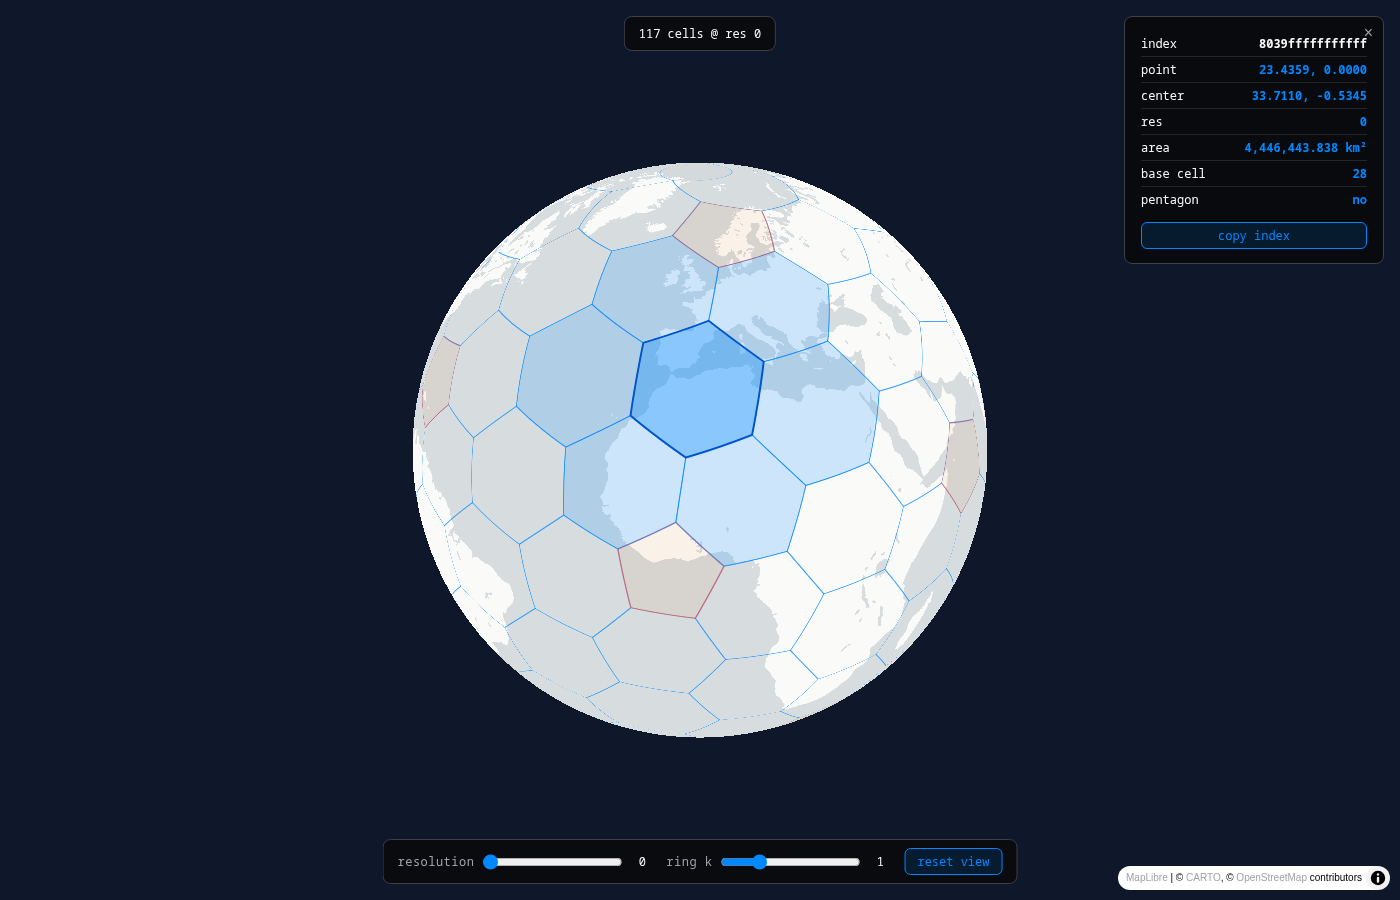
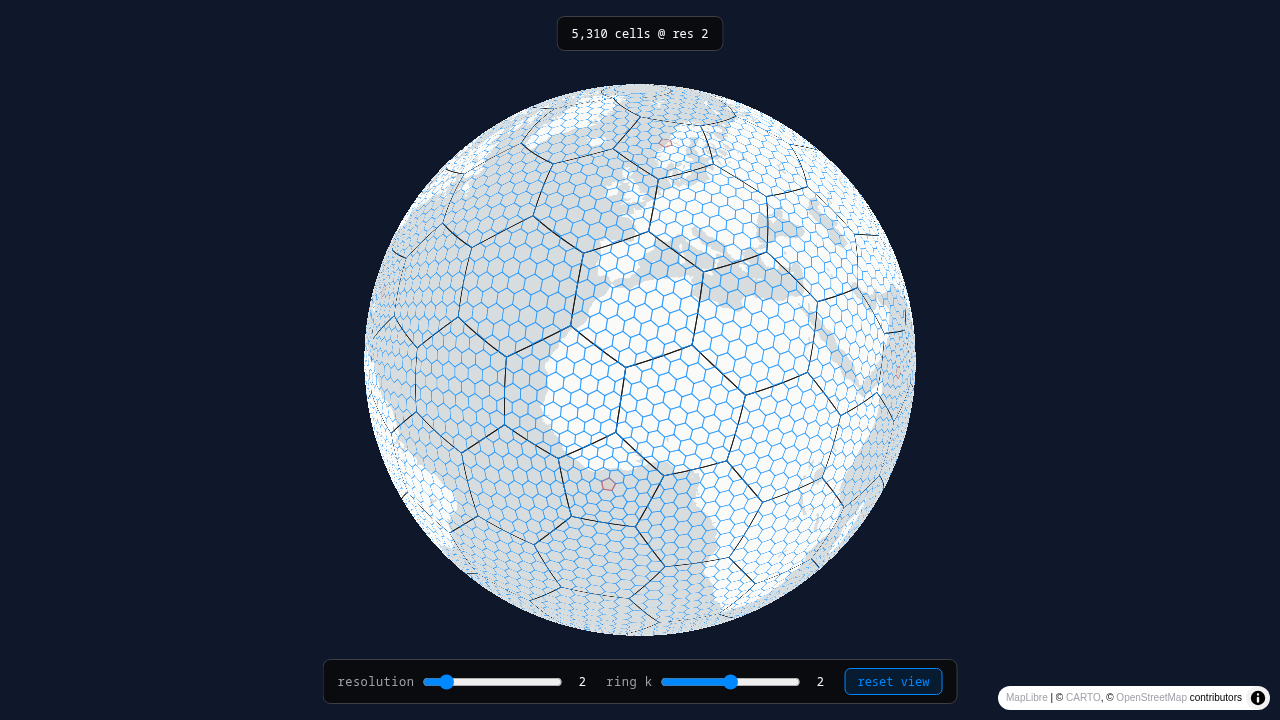
labs: update default values for resolution and ring k; add res0 layer

diff --git a/labs/h3-globe/js/main.js b/labs/h3-globe/js/main.js
@@ -1,4 +1,4 @@
-const DEFAULTS = { res: 0, k: 1 }
+const DEFAULTS = { res: 2, k: 2 }
 const STYLE = 'https://basemaps.cartocdn.com/gl/positron-gl-style/style.json'
 const MAX_CELLS = 20000
 const CENTER = [0, 23.43594]
@@ -16,8 +16,8 @@ const HIDE_LAYERS = [
 ]
 
 let map = null
-let res = 0
-let k = 1
+let res = 2
+let k = 2
 let hoverCell = null
 let lastHoverPoint = null
 let pendingGridFlush = null
@@ -210,10 +210,23 @@ function showInfo(lat, lng, cell) {
   els.info.style.display = 'block'
 }
 
+function addRes0Layer() {
+  const features = h3.getRes0Cells().map((id) => gridFeature(id))
+  map.addSource('res0', {
+    type: 'geojson',
+    data: { type: 'FeatureCollection', features },
+  })
+  map.addLayer({
+    id: 'res0-line', type: 'line', source: 'res0',
+    paint: { 'line-color': '#000000', 'line-width': 1, 'line-opacity': 1 },
+  })
+}
+
 function addLayers() {
   for (const id of HIDE_LAYERS) {
     if (map.getLayer(id)) map.setLayoutProperty(id, 'visibility', 'none')
   }
+  addRes0Layer()
   map.addSource('grid', { type: 'geojson', data: { type: 'FeatureCollection', features: [] } })
   map.addSource('hover', { type: 'geojson', data: { type: 'FeatureCollection', features: [] } })
   map.addLayer({

diff --git a/labs/h3-globe/index.html b/labs/h3-globe/index.html
@@ -23,13 +23,13 @@
   <div class="hud hud-bottom">
     <div class="hud-group">
       <label class="hud-label" for="hud-res">resolution</label>
-      <input class="hud-range" id="hud-res" type="range" min="0" max="15" step="1" value="0">
-      <span class="hud-item" id="hud-res-val">0</span>
+      <input class="hud-range" id="hud-res" type="range" min="0" max="15" step="1" value="2">
+      <span class="hud-item" id="hud-res-val">2</span>
     </div>
     <div class="hud-group">
       <label class="hud-label" for="hud-k">ring k</label>
-      <input class="hud-range" id="hud-k" type="range" min="0" max="4" step="1" value="1">
-      <span class="hud-item" id="hud-k-val">1</span>
+      <input class="hud-range" id="hud-k" type="range" min="0" max="4" step="1" value="2">
+      <span class="hud-item" id="hud-k-val">2</span>
     </div>
     <button class="hud-item hud-btn" id="hud-reset" type="button">reset view</button>
   </div>
